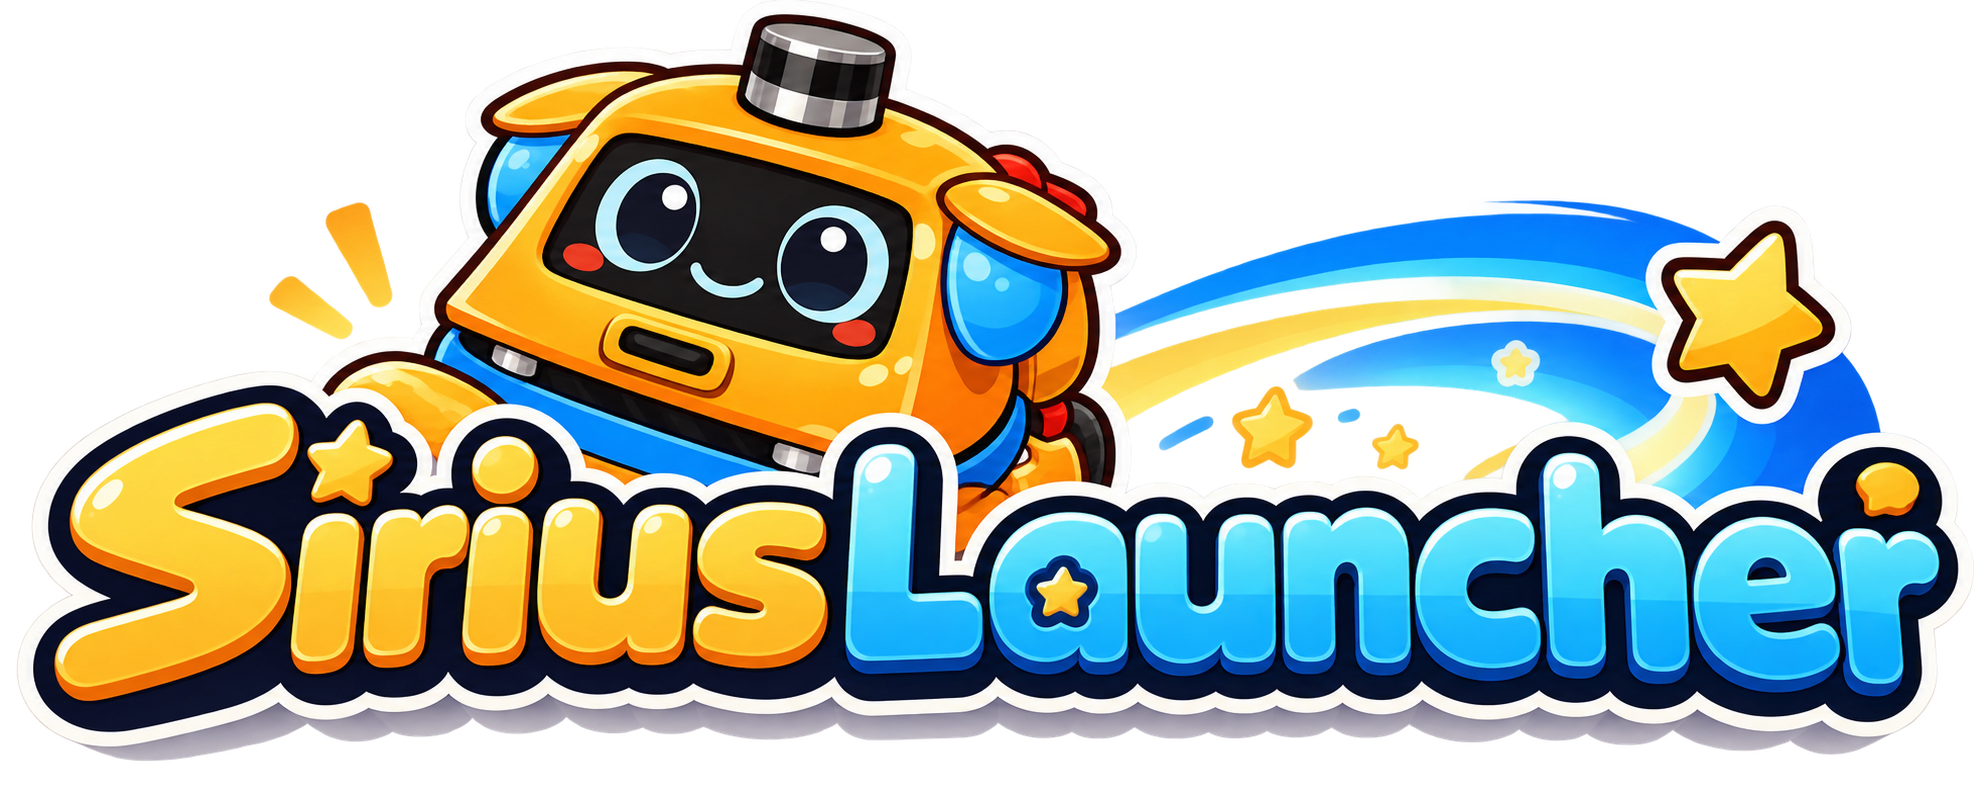
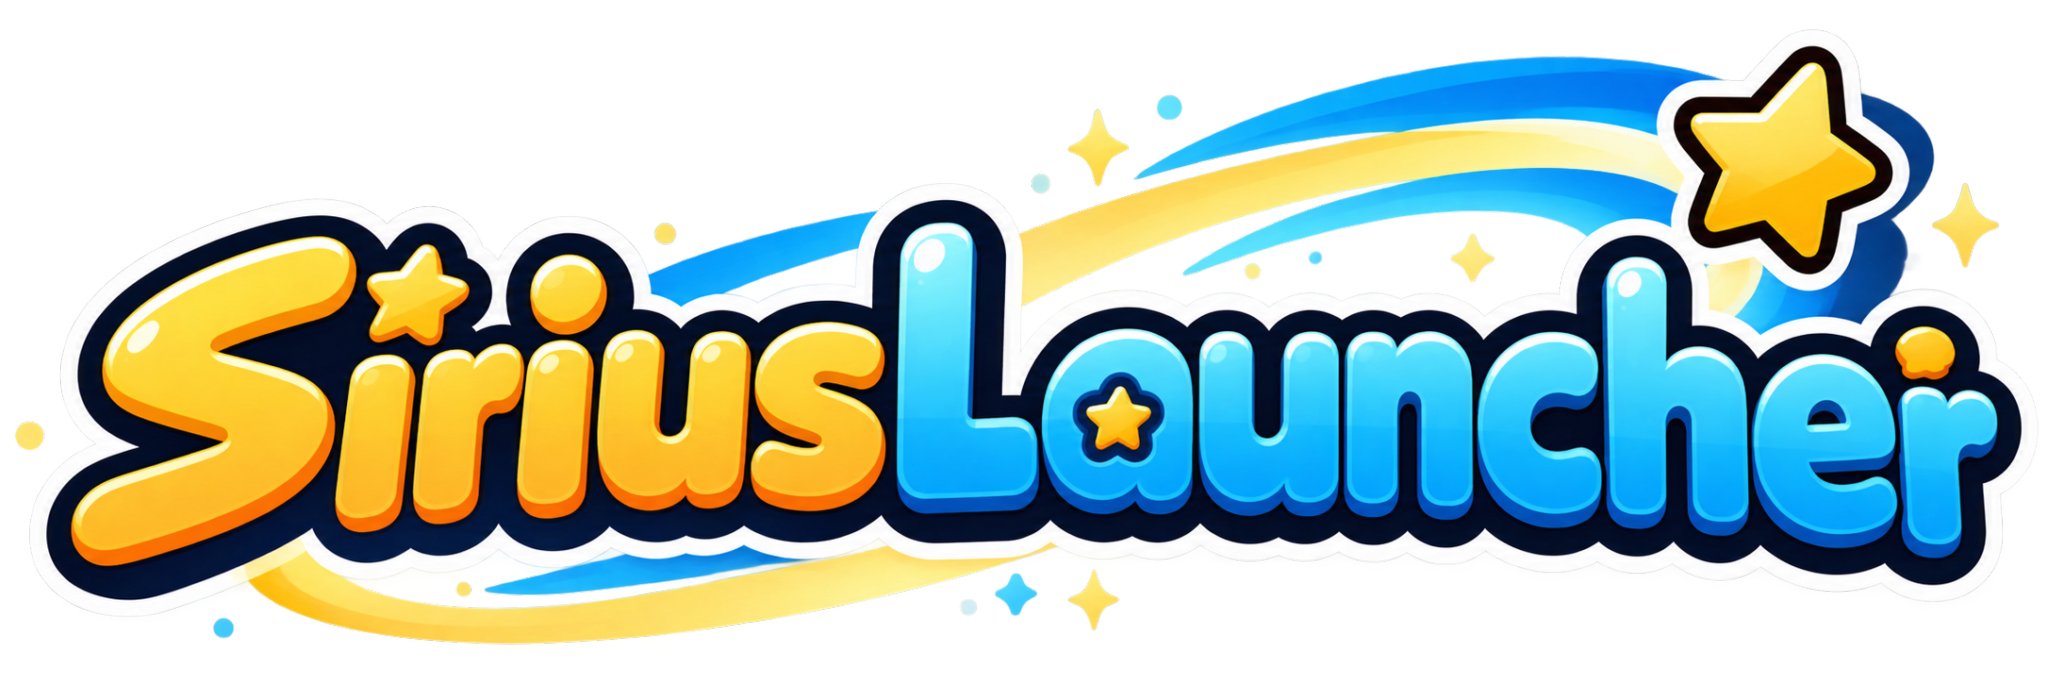
Replace SiriusLauncher title artwork with revised design

diff --git a/other_programs/sirius_launcher/launcher.html b/other_programs/sirius_launcher/launcher.html
@@ -2,7 +2,7 @@
 <link rel="stylesheet" href="/static/branding.css"><script defer src="/static/branding.js"></script>
 </head><body data-page="home">
 <aside class="rail"><a class="brand" href="#home" aria-label="Sirius Home" onclick="setPage('home');return false"><img class="sirius-icon" src="/static/branding/sirius-icon.png" alt="" width="64" height="64"></a><div class="rail-nav"><button class="nav-item active" data-page="home" onclick="setPage('home')" title="Home" aria-label="Home" aria-current="page"><svg viewBox="0 0 24 24" fill="none" stroke="currentColor" stroke-width="1.65" stroke-linecap="round" stroke-linejoin="round" aria-hidden="true"><path d="m3 10 9-7 9 7v10a1 1 0 0 1-1 1h-5v-7H9v7H4a1 1 0 0 1-1-1z"/></svg><span>Home</span></button><button class="nav-item" data-page="terminal" onclick="setPage('terminal')" title="Terminal" aria-label="Terminal" aria-current="false"><svg viewBox="0 0 24 24" fill="none" stroke="currentColor" stroke-width="1.65" stroke-linecap="round" stroke-linejoin="round" aria-hidden="true"><rect x="3" y="4" width="18" height="16" rx="3"/><path d="m7 9 3 3-3 3m6 0h4"/></svg><span>Terminal</span></button><button class="nav-item" data-page="resources" onclick="setPage('resources')" title="Monitor" aria-label="Monitor" aria-current="false"><svg viewBox="0 0 24 24" fill="none" stroke="currentColor" stroke-width="1.65" stroke-linecap="round" stroke-linejoin="round" aria-hidden="true"><path d="M3 12h4l3-8 4 16 3-8h4"/></svg><span>Monitor</span></button><button class="nav-item" data-page="tf" onclick="setPage('tf')" title="TF Tree" aria-label="TF Tree"><svg viewBox="0 0 24 24" fill="none" stroke="currentColor" stroke-width="1.65" stroke-linecap="round" stroke-linejoin="round" aria-hidden="true"><rect x="9" y="2" width="6" height="5" rx="1"/><rect x="2" y="17" width="6" height="5" rx="1"/><rect x="16" y="17" width="6" height="5" rx="1"/><path d="M12 7v5M5 17v-5h14v5"/></svg><span>TF Tree</span></button><button class="nav-item" data-page="settings" onclick="setPage('settings')" title="設定" aria-label="設定" aria-current="false"><svg viewBox="0 0 24 24" fill="none" stroke="currentColor" stroke-width="1.65" stroke-linecap="round" stroke-linejoin="round" aria-hidden="true"><path d="m9 3-1 3-3 1-2 3 2 2-1 3 2 3h3l2 3h3l1-3 3-1 2-3-2-2 1-3-2-3h-3l-2-3z"/><circle cx="11.5" cy="12" r="3"/></svg><span>設定</span></button></div><div class="rail-bottom"><button class="nav-item" id="fullscreenBtn" onclick="toggleFullscreen()" title="フルスクリーン" aria-label="フルスクリーン"><svg viewBox="0 0 24 24" fill="none" stroke="currentColor" stroke-width="1.65" stroke-linecap="round" stroke-linejoin="round" aria-hidden="true"><path d="M8 3H3v5m13-5h5v5M3 16v5h5m13-5v5h-5"/></svg><span>画面</span></button><span class="rail-version">SIRIUS</span></div></aside>
-<div class="app-shell"><header class="appbar"><div class="page-identity"><span class="app-name"><img class="sirius-title-logo" src="/static/branding/sirius-title.png" alt="SiriusLauncher" width="1983" height="793"></span><span class="app-divider"></span><span id="page-label">Home</span></div><div class="top-status"><span class="connection" id="connection"><i></i><span>接続中</span></span><span class="host-name" id="host-name">—</span><button class="domain-pill" onclick="setPage('settings')" title="ROSドメイン設定">DOMAIN <b id="domain-label">—</b></button><span class="clock" id="clock">—</span></div></header>
+<div class="app-shell"><header class="appbar"><div class="page-identity"><span class="app-name"><img class="sirius-title-logo" src="/static/branding/sirius-title.png?v=3461897533" alt="SiriusLauncher" width="2048" height="683"></span><span class="app-divider"></span><span id="page-label">Home</span></div><div class="top-status"><span class="connection" id="connection"><i></i><span>接続中</span></span><span class="host-name" id="host-name">—</span><button class="domain-pill" onclick="setPage('settings')" title="ROSドメイン設定">DOMAIN <b id="domain-label">—</b></button><span class="clock" id="clock">—</span></div></header>
 <main class="workspace"><section class="page active" id="page-home" aria-label="Home"><div class="page-heading"><div><div class="eyebrow">ROBOT WORKSPACE</div><h1>Home</h1><p>プログラムの起動と、システムの状態確認。</p></div><button class="subtle-button" onclick="refresh()"><svg viewBox="0 0 24 24" fill="none" stroke="currentColor" stroke-width="1.65" stroke-linecap="round" stroke-linejoin="round" aria-hidden="true"><path d="M20 7v5h-5M4 17v-5h5m-4-4a8 8 0 0 1 14-3l1 3M4 16l1 3a8 8 0 0 0 14-3"/></svg>状態を更新</button></div><div class="home-layout"><div class="home-main"><section class="panel presets"><div class="section-heading"><h2>クイックスタート <span id="preset-count"></span></h2><button id="pedit" class="text-button">編集</button></div><div class="plist preset-grid" id="presets"></div><button class="text-button more-presets" onclick="toggleAllPresets()" id="more-presets">すべてのプリセットを見る</button><div id="pt_presets" hidden></div></section><section class="program-section"><div class="section-heading"><h2>プログラム</h2><span class="muted" id="command-count"></span></div><div class="cmdbar"><div class="cmdwrap"><span class="search-icon"><svg viewBox="0 0 24 24" fill="none" stroke="currentColor" stroke-width="1.65" stroke-linecap="round" stroke-linejoin="round" aria-hidden="true"><circle cx="10.5" cy="10.5" r="6.5"/><path d="m16 16 5 5"/></svg></span><input id="cmdin" aria-label="プログラム・コマンド検索" placeholder="プログラムを検索、またはコマンドを入力" autocomplete="off" spellcheck="false"><div class="sugg hidden" id="sugg"></div></div><button class="hbtn" id="cmdrun" onclick="runCmd()">実行 <svg viewBox="0 0 24 24" fill="none" stroke="currentColor" stroke-width="1.65" stroke-linecap="round" stroke-linejoin="round" aria-hidden="true"><path d="M5 12h14m-5-5 5 5-5 5"/></svg></button></div><div class="tabs" id="tabs" role="tablist" aria-label="プログラムカテゴリ"></div><div class="view" id="view"></div></section></div><aside class="sidebar"><div class="section-heading"><h2>稼働中 <span id="runhint"></span></h2><span class="live-dot"></span></div><div id="pt_running" hidden></div><div id="cnt" class="running-caption">状態を確認中</div><div class="plist" id="running"><div class="empty">接続を待っています</div></div><div class="sidebar-footer"><button class="text-button" id="teleopBtn" onclick="toggleTeleop()"><svg viewBox="0 0 24 24" fill="none" stroke="currentColor" stroke-width="1.65" stroke-linecap="round" stroke-linejoin="round" aria-hidden="true"><circle cx="12" cy="12" r="9"/><path d="m12 5 3 7-3 7-3-7z"/></svg>ロボット操作</button><button id="errcnt" onclick="openErrors()" class="text-button"></button></div><div class="mini-health"><span>HOST HEALTH</span><button onclick="setPage('resources')"><b id="mini-cpu">—</b> CPU <i>·</i> <b id="mini-memory">—</b> メモリ <svg viewBox="0 0 24 24" fill="none" stroke="currentColor" stroke-width="1.65" stroke-linecap="round" stroke-linejoin="round" aria-hidden="true"><path d="m9 5 7 7-7 7"/></svg></button></div></aside></div><div id="gutter" hidden></div><div id="hgutter" hidden></div><button id="sidebarBtn" hidden></button></section>
 <section class="page" id="page-terminal" aria-label="Terminal"><div class="page-heading"><div><div class="eyebrow">COMMAND LINE</div><h1>Terminal</h1><p>対話シェルを、ひとつのワークスペースに。</p></div><button class="primary-button" onclick="newTerm('')"><svg viewBox="0 0 24 24" fill="none" stroke="currentColor" stroke-width="1.65" stroke-linecap="round" stroke-linejoin="round" aria-hidden="true"><path d="M12 5v14M5 12h14"/></svg>新しいターミナル</button></div><div class="terminal-layout"><aside class="terminal-programs"><h2>プログラムのログ</h2><div id="terminal-program-list"><p class="empty">接続を待っています</p></div></aside><div class="terminal-workspace"><div class="term" id="term">
  <div class="tbar" id="termtabs"></div>
